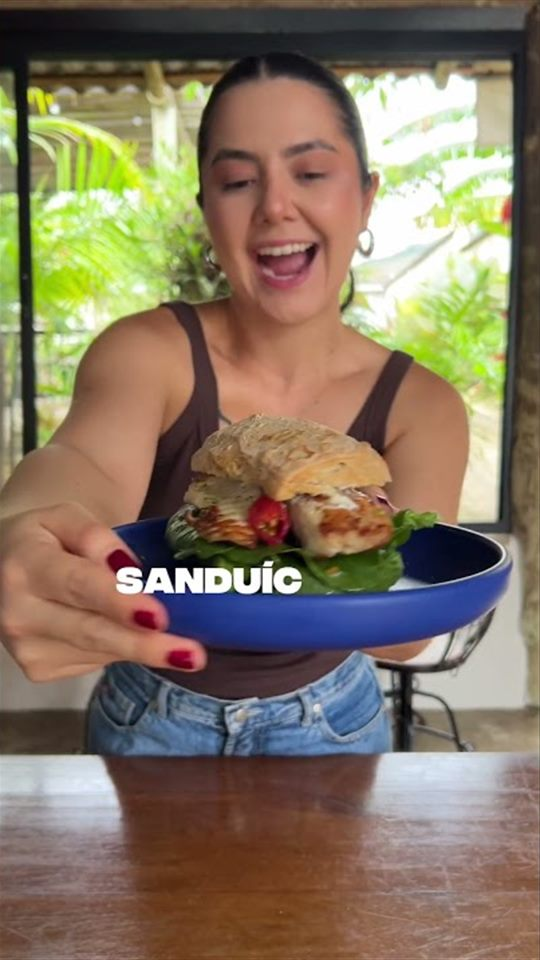
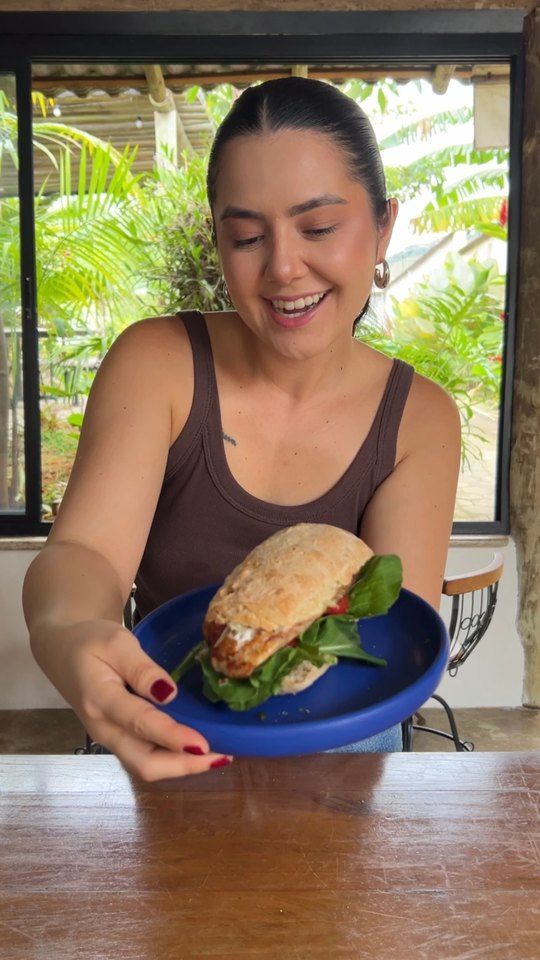
Saúde e Gastronomia com títulos novos e capas novas

diff --git a/index.html b/index.html
@@ -2284,23 +2284,23 @@
             { marca: "Voy", titulo: "Emagrecimento", link: "https://youtube.com/shorts/zZYwDdpSX70" },
             { marca: "Empório Macadâmia", titulo: "Programa de fidelidade", link: "https://youtube.com/shorts/AA9ZTdH-ccs" },
             { marca: "Constlivre", titulo: "Review", link: "https://youtube.com/shorts/Koa79CJTQmY" },
-            { marca: "Presente", titulo: "Chocolate para presentear", link: "https://youtube.com/shorts/nlqTzpcPfzI" },
-            { marca: "Essencial Spa", titulo: "Lipedema", link: "https://youtube.com/shorts/oWdVbBzOS3c" },
+            { marca: "Empório Macadâmia", titulo: "Chocolates Haoma para presentear", link: "https://youtube.com/shorts/nlqTzpcPfzI" },
+            { marca: "Essencial SPA", titulo: "Depoimento Lipedema", link: "https://youtube.com/shorts/oWdVbBzOS3c" },
             { marca: "Empório Macadâmia", titulo: "Bebida proteica", link: "https://youtube.com/shorts/ICHnuZDongw" },
             { marca: "Bothanica Mineral", titulo: "Review", link: "https://youtube.com/shorts/J07SsnxZ1Vc" }
           ]},
           { nome: "Gastronomia", videos: [
-            { marca: "Copacol", titulo: "Sanduíche", link: "https://youtube.com/shorts/_uSQIenXBKo" },
-            { marca: "Copacol", titulo: "Fishgets", link: "https://youtube.com/shorts/Xrpm7AmG7TM" },
-            { marca: "Speck", titulo: "Maionese trufada em ASMR", link: "https://youtube.com/shorts/qwLCa9SRy_E" },
-            { marca: "Padoca Caiupura", titulo: "Experiência", link: "https://youtube.com/shorts/MEII_hicPec" },
-            { marca: "Copacol", titulo: "Filé assado", link: "https://youtube.com/shorts/rTbq6-neY9I" },
-            { marca: "Trisanti", titulo: "Receita com udon", link: "https://youtube.com/shorts/4BUU448AEAs" },
-            { marca: "Battagini", titulo: "Pizzaria em Lorena", link: "https://youtube.com/shorts/6X4cJrrpwg8" },
-            { marca: "Tropical Especiarias", titulo: "Drinks", link: "https://youtube.com/shorts/Svi-VP0Fsps" },
-            { marca: "Receita", titulo: "Panqueca com manteiga de amendoim", link: "https://youtube.com/shorts/60G3KwWXUBs" },
+            { marca: "Copacol", titulo: "Receita sanduíche", link: "https://youtube.com/shorts/_uSQIenXBKo" },
+            { marca: "Copacol", titulo: "Apresentação Fishgets", link: "https://youtube.com/shorts/Xrpm7AmG7TM" },
+            { marca: "Speck Truffle", titulo: "Maionese trufada em ASMR", link: "https://youtube.com/shorts/qwLCa9SRy_E" },
+            { marca: "Padoca Caiupura", titulo: "Experiência loja física", link: "https://youtube.com/shorts/MEII_hicPec" },
+            { marca: "Copacol", titulo: "Receita Filé assado", link: "https://youtube.com/shorts/rTbq6-neY9I" },
+            { marca: "Trisanti", titulo: "Receita linha oriental", link: "https://youtube.com/shorts/4BUU448AEAs" },
+            { marca: "Battagini Pizzaria", titulo: "Ação na rua", link: "https://youtube.com/shorts/6X4cJrrpwg8" },
+            { marca: "Tropical Especiarias", titulo: "Receita drink", link: "https://youtube.com/shorts/Svi-VP0Fsps" },
+            { marca: "Empório Macadâmia", titulo: "Receita panqueca com pasta de amendoim", link: "https://youtube.com/shorts/60G3KwWXUBs" },
             { marca: "Rap10", titulo: "Receita viral no TikTok", link: "https://youtube.com/shorts/vDy_HsxSQ2Y" },
-            { marca: "Copacol", titulo: "Receita com +8M de views", link: "https://youtube.com/shorts/-ubMCwwZWUA" }
+            { marca: "Copacol", titulo: "Receita Ceviche viral no TikTok", link: "https://youtube.com/shorts/-ubMCwwZWUA" }
           ]},
           { nome: "Casa", videos: [
             { marca: "Coala", titulo: "Lançamento", link: "https://youtube.com/shorts/1BFxYgk0Zww" },
@@ -2577,8 +2577,8 @@
           { nome: "Fashion", videos: [{ titulo: "Aesthetic sunglasses" }, { titulo: "Twin inspiration" }, { titulo: "Shorts and pants demo" }, { titulo: "Aesthetic spring" }, { titulo: "A dress for every day of the week" }, { titulo: "Microfiber explainer" }, { titulo: "Aesthetic GRWM" }, { titulo: "What I ordered vs. what I got" }, { titulo: "Emotional year-end" }, { titulo: "Aesthetic dress" }, { titulo: "Twin inspiration" }, { titulo: "Microfiber explainer" }, { titulo: "Contest winner" }] },
           { nome: "Try-ons", videos: [{ titulo: "Try-on opening" }, { titulo: "Lança Perfume jumpsuit" }, { titulo: "Party dress" }, { titulo: "Tamires sunglasses" }, { titulo: "Colcci corset and polka dot skirt" }, { titulo: "Heloíse skirt for ads" }, { titulo: "Farm dress" }, { titulo: "Lez a Lez jumpsuit" }, { titulo: "Party dress" }, { titulo: "Colcci look" }] },
           { nome: "Beauty", videos: [{ titulo: "Duos" }, { titulo: "Product launch" }, { titulo: "Lavieen laser experience" }, { titulo: "5 reasons" }, { titulo: "Review" }, { titulo: "Brand presentation" }, { titulo: "Lipo Redux experience" }] },
-          { nome: "Health", videos: [{ titulo: "Weight loss" }, { titulo: "Loyalty program" }, { titulo: "Review" }, { marca: "Gift", titulo: "Chocolate gift" }, { titulo: "Lipedema" }, { titulo: "Protein drink" }, { titulo: "Review" }] },
-          { nome: "Food", videos: [{ titulo: "Sandwich" }, { titulo: "Fishgets" }, { titulo: "Truffle mayo ASMR" }, { titulo: "Experience" }, { titulo: "Roast fillet" }, { titulo: "Udon recipe" }, { titulo: "Pizzeria in Lorena" }, { titulo: "Drinks" }, { marca: "Recipe", titulo: "Peanut butter pancakes" }, { titulo: "Viral TikTok recipe" }, { titulo: "Recipe with 8M+ views" }] },
+          { nome: "Health", videos: [{ titulo: "Weight loss" }, { titulo: "Loyalty program" }, { titulo: "Review" }, { titulo: "Haoma chocolates as a gift" }, { titulo: "Lipedema testimonial" }, { titulo: "Protein drink" }, { titulo: "Review" }] },
+          { nome: "Food", videos: [{ titulo: "Sandwich recipe" }, { titulo: "Fishgets presentation" }, { titulo: "Truffle mayo ASMR" }, { titulo: "In-store experience" }, { titulo: "Roast fillet recipe" }, { titulo: "Asian line recipe" }, { titulo: "Street activation" }, { titulo: "Drink recipe" }, { titulo: "Peanut butter pancake recipe" }, { titulo: "Viral TikTok recipe" }, { titulo: "Viral TikTok ceviche recipe" }] },
           { nome: "Home", videos: [{ titulo: "Launch" }, { titulo: "Dishwashing tip" }, { titulo: "World Cup" }, { titulo: "Review" }, { titulo: "Home finds" }, { titulo: "Gift" }, { titulo: "Launch, part 2" }, { titulo: "Before and after" }] },
           { nome: "Travel", videos: [{ titulo: "Houses in Ubatuba" }, { titulo: "Tourism in Cunha" }, { titulo: "Stay" }, { titulo: "Beach apartment" }, { marca: "Stay", titulo: "Loft tour" }, { titulo: "Experience" }] },
           { nome: "Twins", videos: [{ titulo: "Kids' fashion" }, { titulo: "Day out with the twins" }, { titulo: "World Cup collection" }, { titulo: "The twins' snack" }, { titulo: "Review" }] },
@@ -2761,7 +2761,7 @@
     const $ = (seletor) => document.querySelector(seletor);
     // Muda a cada atualização das logos, para o navegador não mostrar versões antigas guardadas.
     const VERSAO_LOGOS = "20261028-2";
-    const VERSAO_CAPAS = "20261028-4";
+    const VERSAO_CAPAS = "20261029-1";
     const versao = (src) => (src ? `${src}?v=${VERSAO_LOGOS}` : src);
     const reduzirMovimento = window.matchMedia("(prefers-reduced-motion: reduce)").matches;
 
